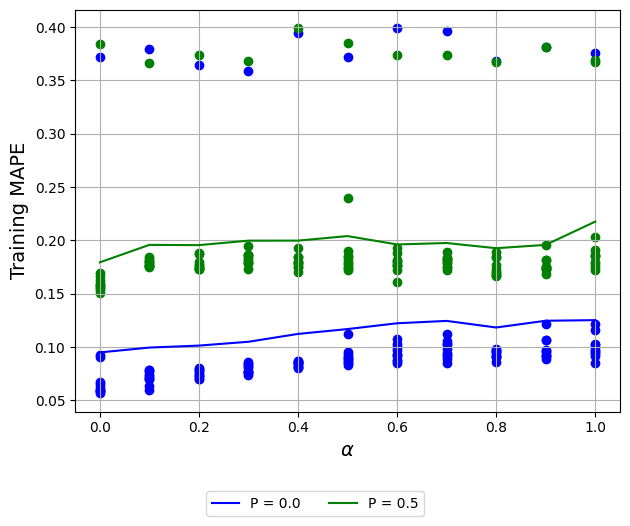
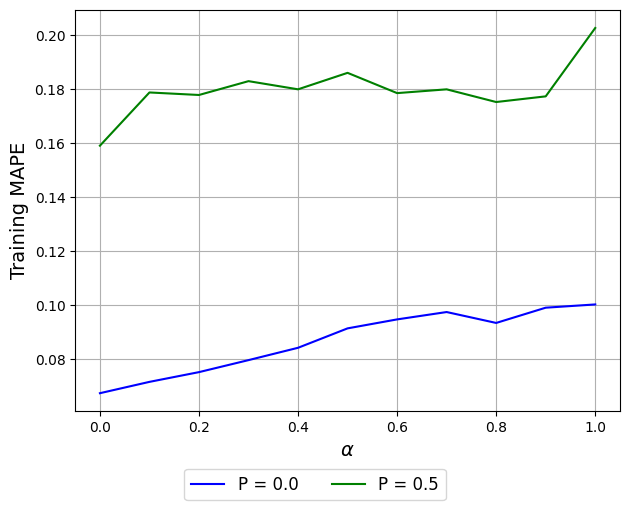
zinc plotting

diff --git a/plots/metrics/synthetic_zinc.py b/plots/metrics/synthetic_zinc.py
@@ -17,8 +17,8 @@ args.metric = f'Mean {args.metric} Error'
 ps = (0.0, 0.5)
 alphas = list(map(lambda x: round(x, 1), np.arange(0.0, 1.01, 0.1)))
 
-assets_dir = './assets/synthetics/SyntheticZINC/GCN'
-exp_dir = assets_dir.replace('assets', 'results') + '/L=11/P={P}/alpha={alpha}'
+assets_dir = './assets/synthetics/SyntheticZINC'
+exp_dir = assets_dir.replace('assets', 'results') + '/P={P}/alpha={alpha}'
 
 ### RETRIEVE METRICS ###
 
@@ -29,7 +29,9 @@ gap_metrics = defaultdict(list)
 for p in ps:
     for alpha in alphas:
         exp_dir_format = exp_dir.format(P=p, alpha=alpha)
-        for sample_dir in os.listdir(exp_dir_format):
+        for sample, sample_dir in enumerate(os.listdir(exp_dir_format), 1):
+            if int(sample) == 6:
+                continue
             train, val, test = parse_metrics(f'{exp_dir_format}/{sample_dir}/logs')
             if len(train[args.metric]) != 250:
                 continue
@@ -50,19 +52,20 @@ mean_colors = iter(('purple', 'yellow'))
 for p in ps:
     color = next(colors)
     mean_color = next(mean_colors)
-    means, lower, upper = list(), list(), list()
+    means, stds = list(), list()
     for alpha in alphas:
         metrics = train_metrics.get((p, alpha), (np.nan, np.nan, np.nan))
-        ax.scatter([alpha]*len(metrics), metrics, color=color)
         means.append(np.mean(metrics))
-        # ax.scatter(alpha, np.mean(metrics), color=mean_color)
+        stds.append(np.std(metrics))
+    means, stds = map(np.array, (means, stds))
     ax.plot(alphas, means, color=color, label=f'P = {p:.1f}')
+    # ax.fill_between(alphas, means-stds, means+stds, color=color, alpha=0.2)
 ax.set_xlabel(r'$\alpha$', fontsize=14)
 ax.set_ylabel(f"Training {''.join(map(lambda x: x[0], args.metric.split()))}", fontsize=14)
 ax.grid()
 
 handles, labels = ax.get_legend_handles_labels()
-fig.legend(handles, labels, loc='lower center', ncol=len(ps), bbox_to_anchor = (0, -0.1, 1, 1))
+fig.legend(handles, labels, fontsize=12, loc='lower center', ncol=len(ps), bbox_to_anchor=(0,-0.07,1,1))
 fig.tight_layout()
 fn = f"./{assets_dir}/{args.which}/{args.metric}/train.png"
 os.makedirs(os.path.dirname(fn), exist_ok=True)
@@ -77,19 +80,20 @@ mean_colors = iter(('purple', 'yellow'))
 for p in ps:
     color = next(colors)
     mean_color = next(mean_colors)
-    means, lower, upper = list(), list(), list()
+    means, stds = list(), list()
     for alpha in alphas:
         metrics = test_metrics.get((p, alpha), (np.nan, np.nan, np.nan))
-        ax.scatter([alpha]*len(metrics), metrics, color=color)
         means.append(np.mean(metrics))
-        # ax.scatter(alpha, np.mean(metrics), color=mean_color)
+        stds.append(np.std(metrics))
+    means, stds = map(np.array, (means, stds))
     ax.plot(alphas, means, color=color, label=f'P = {p:.1f}')
+    # ax.fill_between(alphas, means-stds, means+stds, color=color, alpha=0.2)
 ax.set_xlabel(r'$\alpha$', fontsize=14)
 ax.set_ylabel(f"Testing {''.join(map(lambda x: x[0], args.metric.split()))}", fontsize=14)
 ax.grid()
 
 handles, labels = ax.get_legend_handles_labels()
-fig.legend(handles, labels, loc='lower center', ncol=len(ps), bbox_to_anchor = (0, -0.1, 1, 1))
+fig.legend(handles, labels, fontsize=12, loc='lower center', ncol=len(ps), bbox_to_anchor=(0,-0.07,1,1))
 fig.tight_layout()
 fn = f"./{assets_dir}/{args.which}/{args.metric}/test.png"
 os.makedirs(os.path.dirname(fn), exist_ok=True)
@@ -104,19 +108,20 @@ mean_colors = iter(('purple', 'yellow'))
 for p in ps:
     color = next(colors)
     mean_color = next(mean_colors)
-    means, lower, upper = list(), list(), list()
+    means, stds = list(), list()
     for alpha in alphas:
         metrics = gap_metrics.get((p, alpha), (np.nan, np.nan, np.nan))
-        ax.scatter([alpha]*len(metrics), metrics, color=color)
         means.append(np.mean(metrics))
-        # ax.scatter(alpha, np.mean(metrics), color=mean_color)
+        stds.append(np.std(metrics))
+    means, stds = map(np.array, (means, stds))
     ax.plot(alphas, means, color=color, label=f'P = {p:.1f}')
+    # ax.fill_between(alphas, means-stds, means+stds, color=color, alpha=0.2)
 ax.set_xlabel(r'$\alpha$', fontsize=14)
 ax.set_ylabel(f"Generalization Gap in {''.join(map(lambda x: x[0], args.metric.split()))}", fontsize=14)
 ax.grid()
 
 handles, labels = ax.get_legend_handles_labels()
-fig.legend(handles, labels, loc='lower center', ncol=len(ps), bbox_to_anchor = (0, -0.1, 1, 1))
+fig.legend(handles, labels, fontsize=12, loc='lower center', ncol=len(ps), bbox_to_anchor=(0,-0.07,1,1))
 fig.tight_layout()
 fn = f"./{assets_dir}/{args.which}/{args.metric}/gen-gap.png"
 os.makedirs(os.path.dirname(fn), exist_ok=True)
